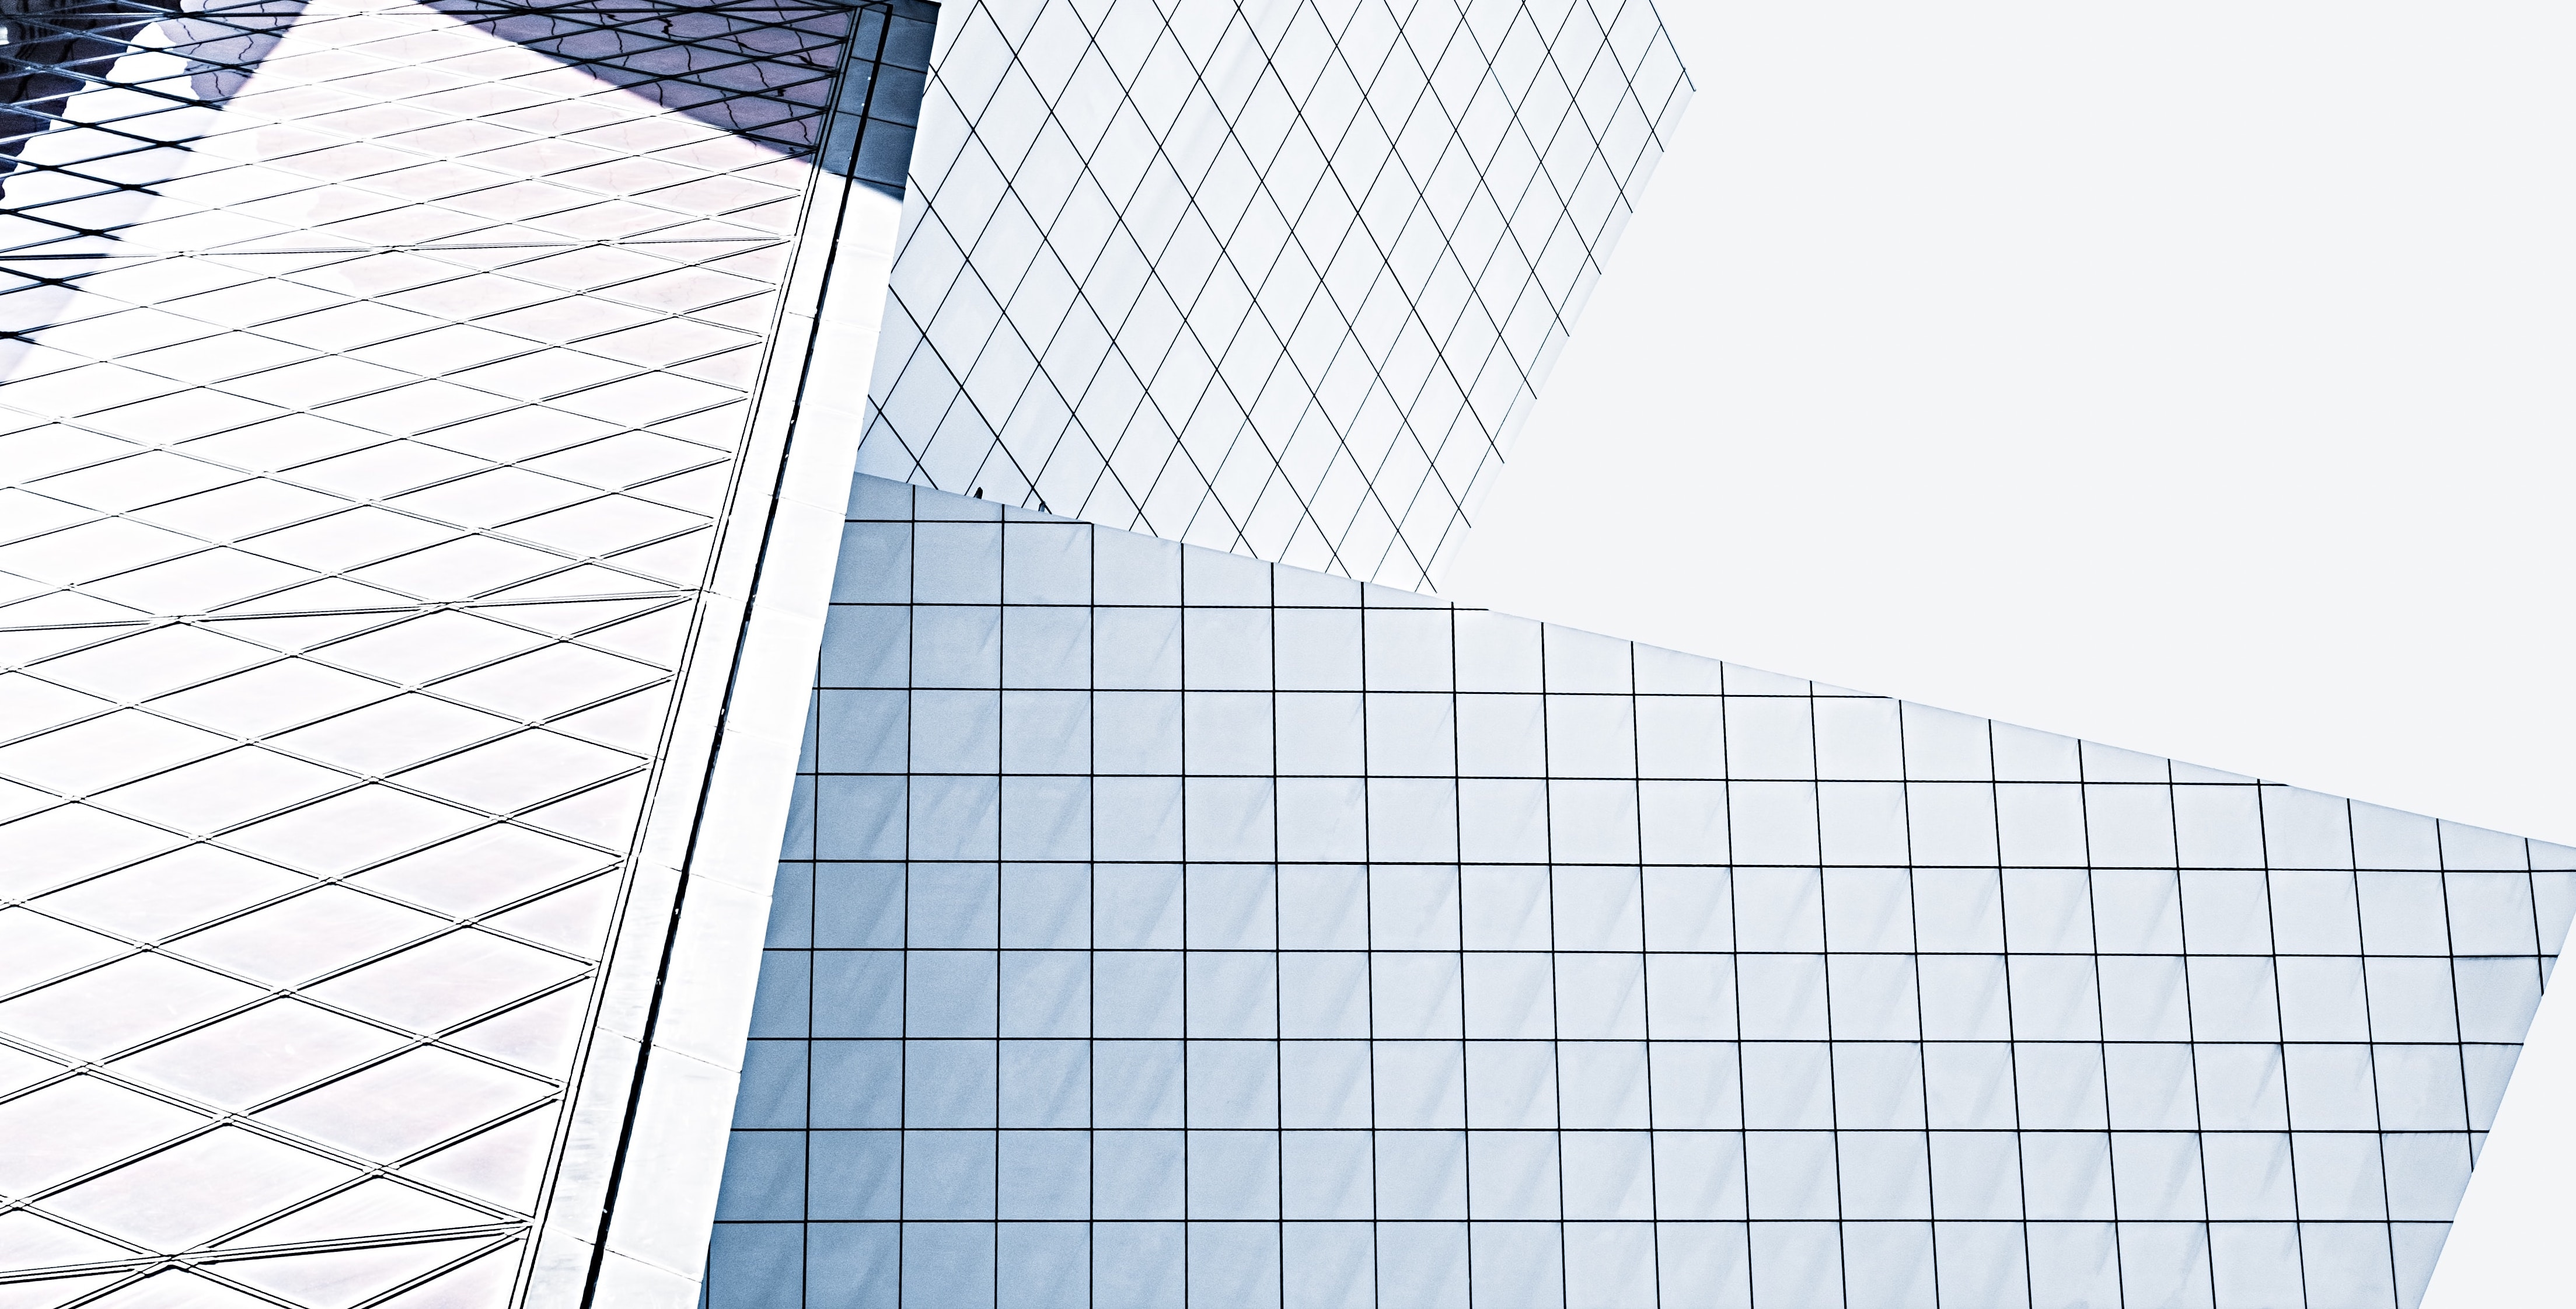
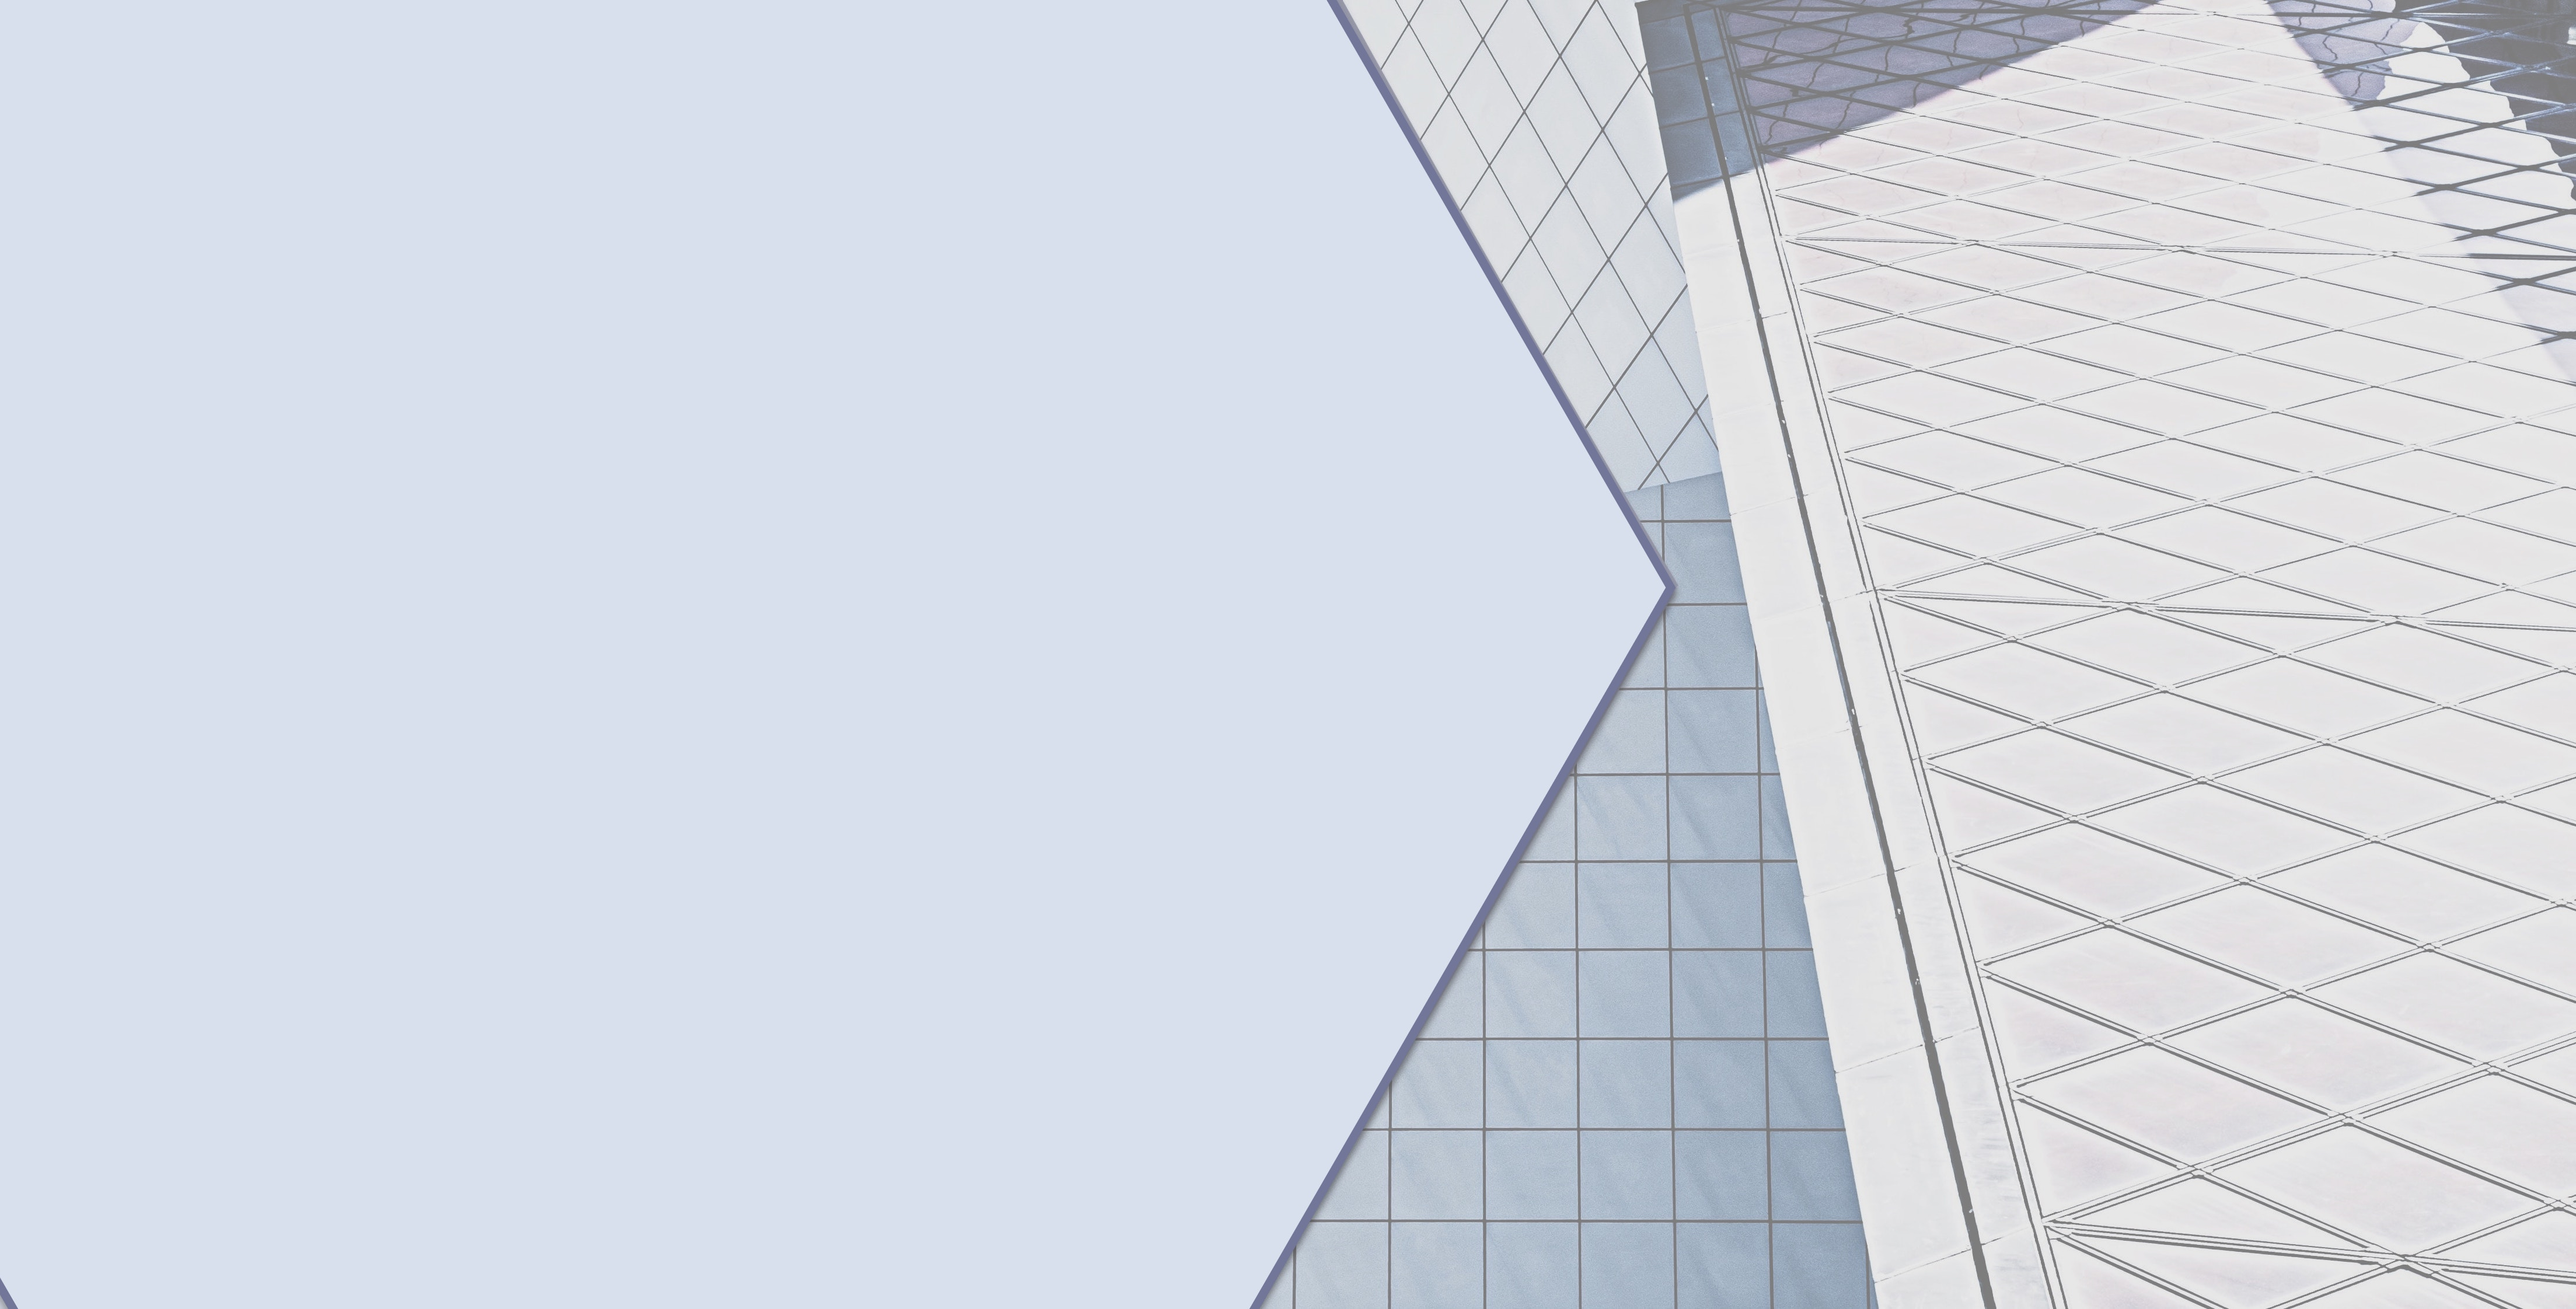
added login content

diff --git a/src/components/content/login/Login.js b/src/components/content/login/Login.js
@@ -1,0 +1,43 @@
+import React, { Component } from 'react'
+
+import './login.css';
+
+class Login extends Component {
+    render() {
+        return (
+            <div className="wrapper">
+
+                <form className="main-form">
+                    <h1>NYC Gas and MA Gas Sign in</h1>
+                    <hr />
+                    <p> All other customers, go to our <a href="https://www.nationalgridus.com/NY-Home/Default.aspx"> homepage</a> <br /> and change your location on the top left of the page to sign in.</p>
+
+                    <div className="inputFields">
+                        <input className="form-row" type="text" placeholder="User ID"></input>
+                        <input className="form-row" type="password" placeholder=" Password"></input>
+                        <input className="form-row" type="button" value="login"></input>
+                        <div></div>
+                    </div>
+
+                    <div className="note">
+                        <a href="https://online.nationalgridus.com/viewmybills/LoginActivate?applicurl=aHR0cHM6Ly9vbmxpbmUubmF0aW9uYWxncmlkdXMuY29tL3ZpZXdteWJpbGxzL215YWNjb3VudC8=&auth_method=0" >
+                            Trying to sign in with account number?</a>
+                    </div>
+
+                    <div className="forgotCreds">
+                        <a href="https://online.nationalgridus.com/forgetpass/KSE_Password.jsp">Forgot Password?</a>
+                        <span> | </span>
+                        <a href="https://online.nationalgridus.com/forgetpass/KSE_userid.jsp">Forgot UserID?</a>
+
+                    </div>
+                </form>
+            </div>
+
+
+
+        )
+    }
+}
+
+
+export default Login;

diff --git a/src/components/content/login/login.css b/src/components/content/login/login.css
@@ -1,0 +1,81 @@
+
+body{
+    overflow-x: hidden;
+}
+.wrapper{
+    width: 800px;
+    display: flex;
+   flex-direction: row;
+   justify-content: flex-start;
+   margin-top:-15%;
+   margin-left: -20%;
+
+}
+
+p{
+    font-size:1.1rem;
+    line-height:20px;
+    padding:20px
+
+}
+
+.main-form h1{
+ color: #53565a
+}
+
+.inputFields{
+    display: inline;
+}
+
+a, a:visited {
+    color:#00148c;
+    text-decoration: none;
+}
+
+hr{
+    width:80%;
+}
+
+.form-row{
+    display: flex;
+    justify-content: flex-start;
+    padding: 2em;
+}
+.note{
+    padding-top:2%;
+    line-height: 25px;
+}
+
+input[type="text"], input[type="password"]{
+    background-color: transparent;
+    border: 0;
+    border-bottom: solid 2px #00148c;
+    width: 45%;
+    padding-bottom: 4px;
+    color: #111;
+    font-weight: dark;
+    letter-spacing: 2px;
+    margin-bottom: 30px;
+    margin-right: 20px;
+    font-size: 20px;
+  }
+
+  input[type="button"]{
+    cursor: pointer;
+    border-radius: 50px;
+    padding: 20px 30px;
+    text-align: center;
+    font-size:1.5rem;
+    letter-spacing: 4px;
+    align-content: center;
+    border: 2px solid #00148c;
+  }
+
+  input[type="button"]:hover{
+      background-color:lightgray;
+  }
+
+  .forgotCreds{
+      letter-spacing: 2px;
+      font-weight: bold;
+  }

diff --git a/src/components/navigation/sideDrawer/sideDrawer.css b/src/components/navigation/sideDrawer/sideDrawer.css
@@ -1,5 +1,5 @@
 .side-drawer{
-    background:white;
+	background:white;
 	box-shadow: 1px  0px 3px rgb(0,0,0);
 	position:fixed;
 	top:56px;
@@ -12,10 +12,10 @@
 }
 
 .side-drawer.open{
-    transform:translateY(0);
+	transform:translateY(0);
 }
 .side-drawer ul{
-    height: 100%;
+	height: 100%;
 	list-style: none;
 	display: flex;
 	flex-direction: column;
@@ -26,15 +26,22 @@
 }
 
 .side-drawer li{
-    margin: 0.5rem 0.5rem;
 	text-align: center;
-
+	font-family: Helvetica Neue,Helvetica,Arial Nova,Arial,sans-serif;
+	font-weight: 700;
+	padding: 10px;
 }
 
 .side-drawer a {
-    color: #00148c;
-    text-decoration: none;
-    font-size:1.2rem
+	color: #00148c;
+	text-decoration: none;
+	font-size:1.0rem;
+	letter-spacing: 0.5px;
+
+}
+
+.side-drawer ul :hover{
+	background:#F4F5F7;
 }
 
 hr {
@@ -46,9 +53,8 @@ hr {
 	height: 1.3px;
 }
 
-
 @media(min-width:769px){
-    .side-drawer{
-        display: none;
-    }
+	.side-drawer{
+		display: none;
+	}
 }

diff --git a/src/App.js b/src/App.js
@@ -3,12 +3,14 @@ import { BrowserRouter } from "react-router-dom";
 
 import Navigation from './components/navigation/Navigation';
 import Main from './components/content/Main';
+import Footer from './components/footer/Footer';
 
 const App = () => (
 	<div>
 		<BrowserRouter>
 			<Navigation />
 			<Main />
+			<Footer />
 		</BrowserRouter>
 	</div>
 

diff --git a/src/components/content/Main.js b/src/components/content/Main.js
@@ -2,10 +2,14 @@
 
 import React from 'react';
 import './main.css';
+import Login from '../content/login/Login';
 
 const Main = () => (
 
-    <div className="container"></div>
+    <div className="container">
+        <Login />
+    </div>
+
 );
 
 export default Main;

diff --git a/src/components/footer/Footer.js b/src/components/footer/Footer.js
@@ -1,0 +1,11 @@
+import React from 'react';
+
+
+const Footer = props => (
+    <div>
+        <p>&copy; 2019 National Grid</p>
+        <a href="https://www.nationalgridus.com/Our-Company/Privacy-Policy"> Privacy Policy</a>
+    </div>
+);
+
+export default Footer;

diff --git a/src/components/content/main.css b/src/components/content/main.css
@@ -5,6 +5,6 @@
 	background-repeat: no-repeat;
 	background-position: center;
     background-attachment:fixed;
-    padding:50%;
-    opacity: 0.5;
+    padding:20%;
+
 }
